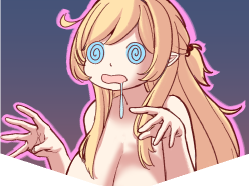
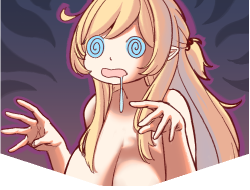
more animation work and new cards

diff --git a/src/main/java/BuxomMod/cards/BraBreaker.java b/src/main/java/BuxomMod/cards/BraBreaker.java
@@ -13,6 +13,7 @@ import com.megacrit.cardcrawl.dungeons.AbstractDungeon;
 import com.megacrit.cardcrawl.monsters.AbstractMonster;
 import com.megacrit.cardcrawl.powers.AbstractPower;
 
+import static BuxomMod.BuxomMod.getStatusCount;
 import static BuxomMod.BuxomMod.makeCardPath;
 
 public class BraBreaker extends AbstractDynamicCard {
@@ -83,55 +84,13 @@ public class BraBreaker extends AbstractDynamicCard {
             addToBot(new MakeTempCardInHandAction(braID));
         }
     }*/
-    public int getStatusCount(AbstractPlayer p) {
-
-        int statusCount = 0;
-        CardGroup statusCardsHand = p.hand.getCardsOfType(CardType.STATUS);
-        CardGroup statusCardsDraw = p.drawPile.getCardsOfType(CardType.STATUS);
-        CardGroup statusCardsDiscard = p.discardPile.getCardsOfType(CardType.STATUS);
-        for (AbstractCard card : statusCardsHand.group) {
-            ++statusCount;
-            BuxomMod.logger.info("Found status card. Status count is" + statusCount);
-            if (card.cardID == BigBounceStatus.ID) {
-                ++statusCount;
-                BuxomMod.logger.info("Found Big Bounce status card. Status count is" + statusCount);
-            } else if (card.cardID.contains("BrokenBra")) {
-                statusCount += 2;
-                BuxomMod.logger.info("Found Broken Bra status card. Status count is" + statusCount);
-            }
-        }
-        for (AbstractCard card : statusCardsDraw.group) {
-            ++statusCount;
-            BuxomMod.logger.info("Found status card. Status count is" + statusCount);
-            if (card.cardID == BigBounceStatus.ID) {
-                ++statusCount;
-                BuxomMod.logger.info("Found Big Bounce status card. Status count is" + statusCount);
-            } else if (card.cardID.contains("BrokenBra")) {
-                statusCount += 2;
-                BuxomMod.logger.info("Found Broken Bra status card. Status count is" + statusCount);
-            }
-        }
-        for (AbstractCard card : statusCardsDiscard.group) {
-            ++statusCount;
-            BuxomMod.logger.info("Found status card. Status count is" + statusCount);
-            if (card.cardID == BigBounceStatus.ID) {
-                ++statusCount;
-                BuxomMod.logger.info("Found Big Bounce status card. Status count is" + statusCount);
-            } else if (card.cardID.contains("BrokenBra")) {
-                statusCount += 2;
-                BuxomMod.logger.info("Found Broken Bra status card. Status count is" + statusCount);
-            }
-        }
-        BuxomMod.logger.info("Final status count is" + statusCount);
-        return statusCount;
-    }
     public void use(AbstractPlayer p, AbstractMonster m) {
         for (AbstractPower pow : p.powers) { //if wearing a bra
             if (pow instanceof BraPower) {
                 ((BraPower) pow).growToBreak();
             }
         }
-        this.baseDamage = BuxomMod.getStatusCount(p) * this.magicNumber;
+        this.baseDamage = getStatusCount(p) * this.magicNumber;
         BuxomMod.logger.info(this.baseDamage + " total damage");
         this.calculateCardDamage((AbstractMonster) null);
         this.addToBot(new DamageAction(m, new DamageInfo(p, damage), AbstractGameAction.AttackEffect.FIRE, false));

diff --git a/src/main/java/BuxomMod/characters/TheBuxom.java b/src/main/java/BuxomMod/characters/TheBuxom.java
@@ -184,6 +184,7 @@ public class TheBuxom extends CustomPlayer {
                 getSkeleton().setAttachment(boobsSlotName, "boobs1");
                 getSkeleton().setAttachment("face", "face1");
                 getSkeleton().setAttachment("chest", "chest");
+                getSkeleton().update(0.01F);
                 break;
             case size2animName:
                 loadAnimation(
@@ -195,6 +196,7 @@ public class TheBuxom extends CustomPlayer {
                 getSkeleton().setAttachment(boobsSlotName, "boobs2");
                 getSkeleton().setAttachment("face", "face2");
                 getSkeleton().setAttachment("chest", "chest");
+                getSkeleton().update(0.01F);
                 break;
             case size3animName:
                 loadAnimation(
@@ -206,6 +208,7 @@ public class TheBuxom extends CustomPlayer {
                 getSkeleton().setAttachment(boobsSlotName, null);
                 getSkeleton().setAttachment("face", "face2");
                 getSkeleton().setAttachment("chest", "chest_ex");
+                getSkeleton().update(0.01F);
                 break;
         }
     }
@@ -216,9 +219,14 @@ public class TheBuxom extends CustomPlayer {
         }
         return anim;
     }
-    public void updateExposed() {
+
+    public void updateExposed(Boolean expose) {
         String currAnimName = this.state.getCurrent(0).getAnimation().getName();
-        changeState(currAnimName);
+        if (expose == true && !currAnimName.contains("_ex")) {
+            changeState(currAnimName + "_ex");
+        } else if (expose == false && currAnimName.contains("_ex")) {
+            changeState(currAnimName.substring(0, currAnimName.length() - 3));
+        }
     }
 
     /*public void updateExposed() {

diff --git a/src/main/java/BuxomMod/powers/ExposedPower.java b/src/main/java/BuxomMod/powers/ExposedPower.java
@@ -53,7 +53,7 @@ public class ExposedPower extends AbstractPower implements CloneablePowerInterfa
     }
 
     public void onInitialApplication() {
-        ((TheBuxom)owner).updateExposed();
+        ((TheBuxom)owner).updateExposed(true);
         if (!BuxomMod.inBraCapacity(owner)) {
             addToBot(new LoseBlockAction(owner, owner, owner.currentBlock));
         }
@@ -75,7 +75,7 @@ public class ExposedPower extends AbstractPower implements CloneablePowerInterfa
         }
     }
     public void onRemove() {
-        ((TheBuxom)owner).updateExposed();
+        ((TheBuxom)owner).updateExposed(false);
     }
 
     @Override

diff --git a/src/main/java/BuxomMod/cards/old/ChibiAttraction.java b/src/main/java/BuxomMod/cards/old/ChibiAttraction.java
@@ -33,7 +33,7 @@ public class ChibiAttraction extends AbstractDynamicCard {
 
     // STAT DECLARATION 	
 
-    private static final CardRarity RARITY = CardRarity.UNCOMMON;
+    private static final CardRarity RARITY = CardRarity.SPECIAL;
     private static final CardTarget TARGET = CardTarget.SELF;
     private static final CardType TYPE = CardType.SKILL;
     public static final CardColor COLOR = TheBuxom.Enums.COLOR_PINK;

diff --git a/src/main/java/BuxomMod/cards/old/ChibiAttack.java b/src/main/java/BuxomMod/cards/old/ChibiAttack.java
@@ -38,7 +38,7 @@ public class ChibiAttack extends AbstractDynamicCard {
 
     // STAT DECLARATION 	
 
-    private static final CardRarity RARITY = CardRarity.UNCOMMON;
+    private static final CardRarity RARITY = CardRarity.SPECIAL;
     private static final CardTarget TARGET = CardTarget.ENEMY;
     private static final CardType TYPE = CardType.ATTACK;
     public static final CardColor COLOR = TheBuxom.Enums.COLOR_PINK;
